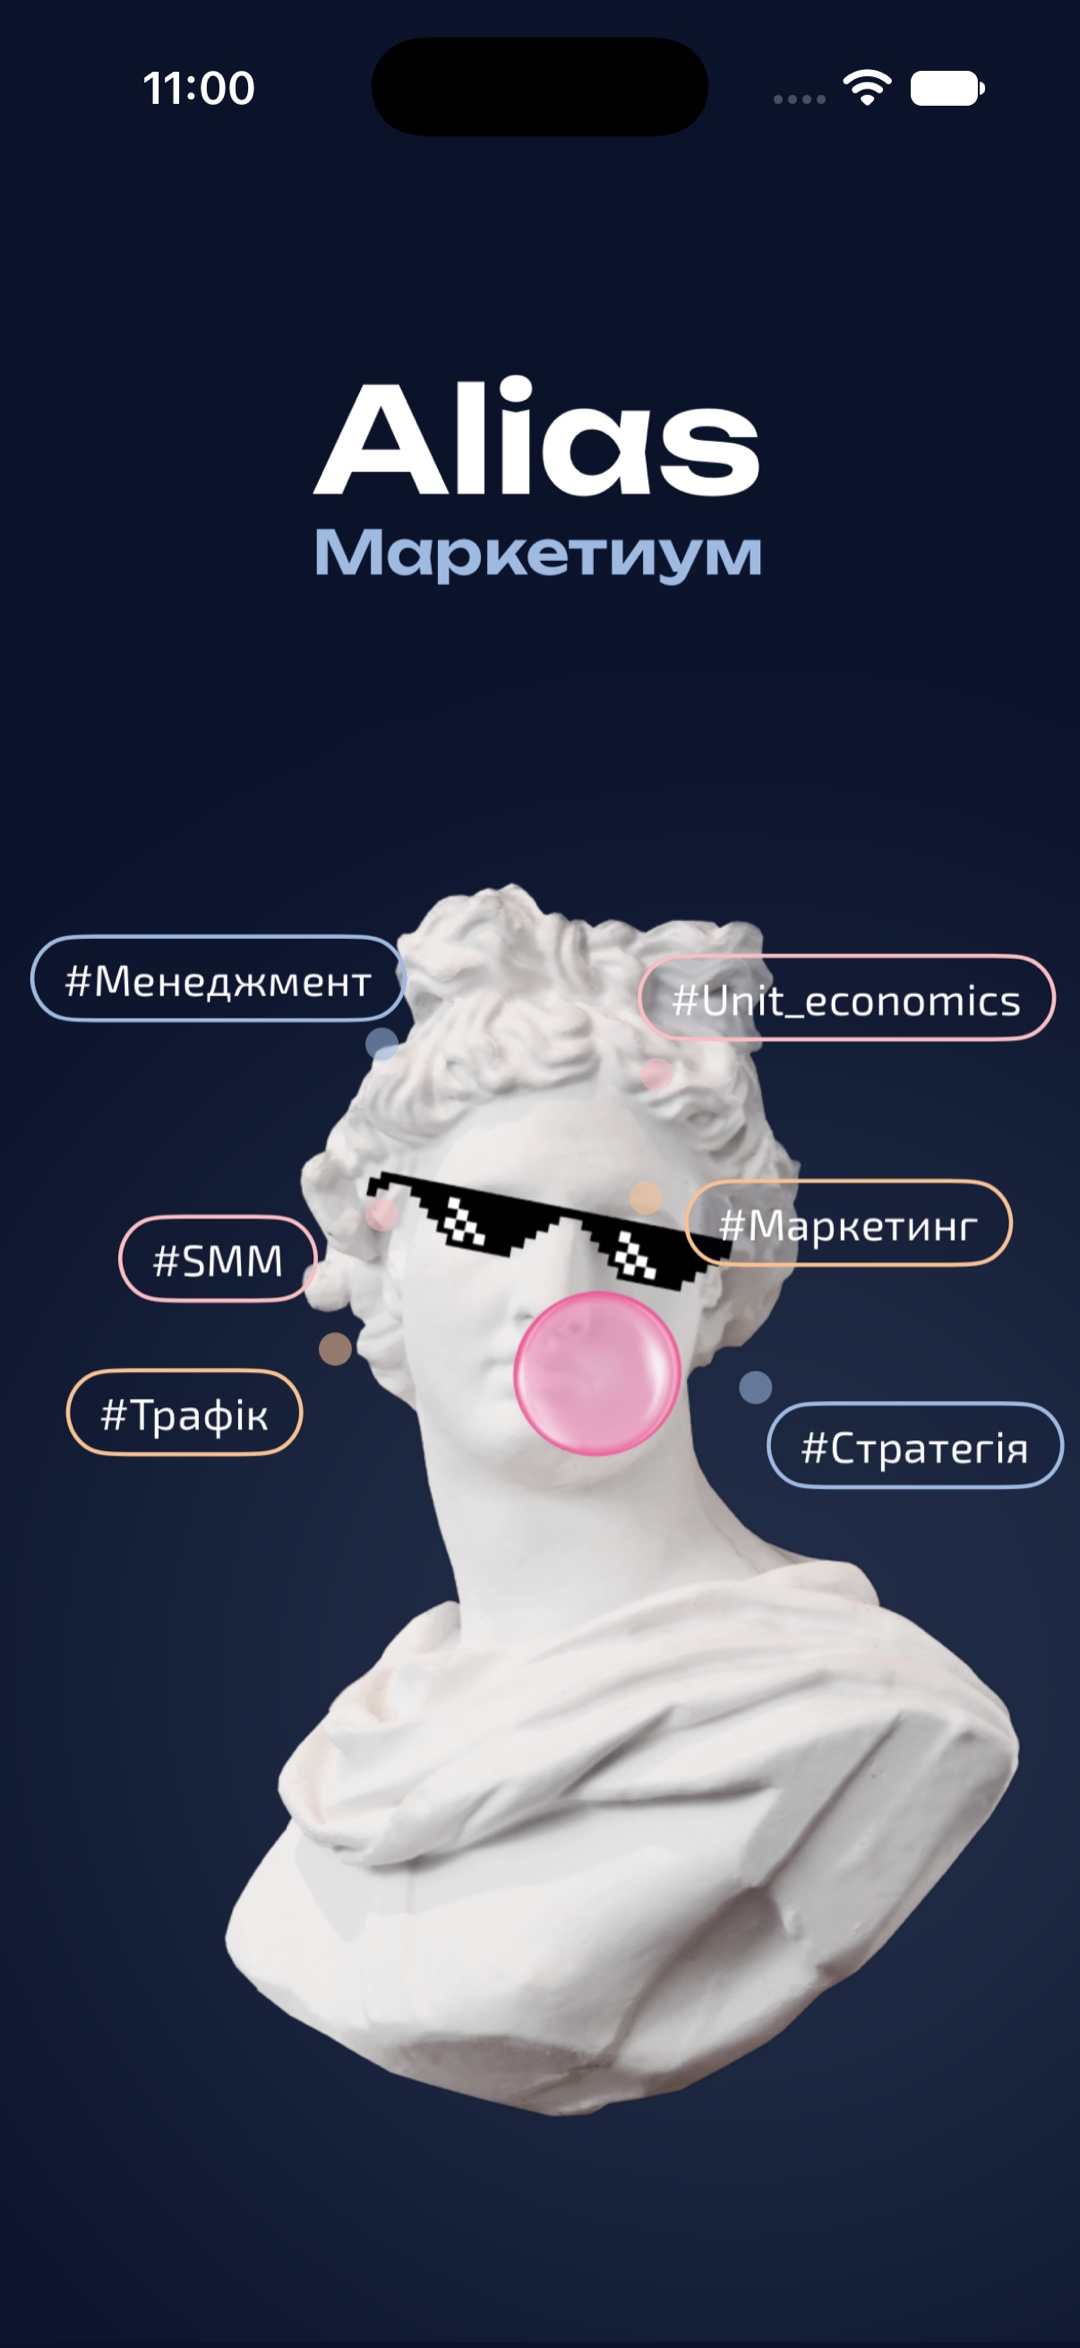
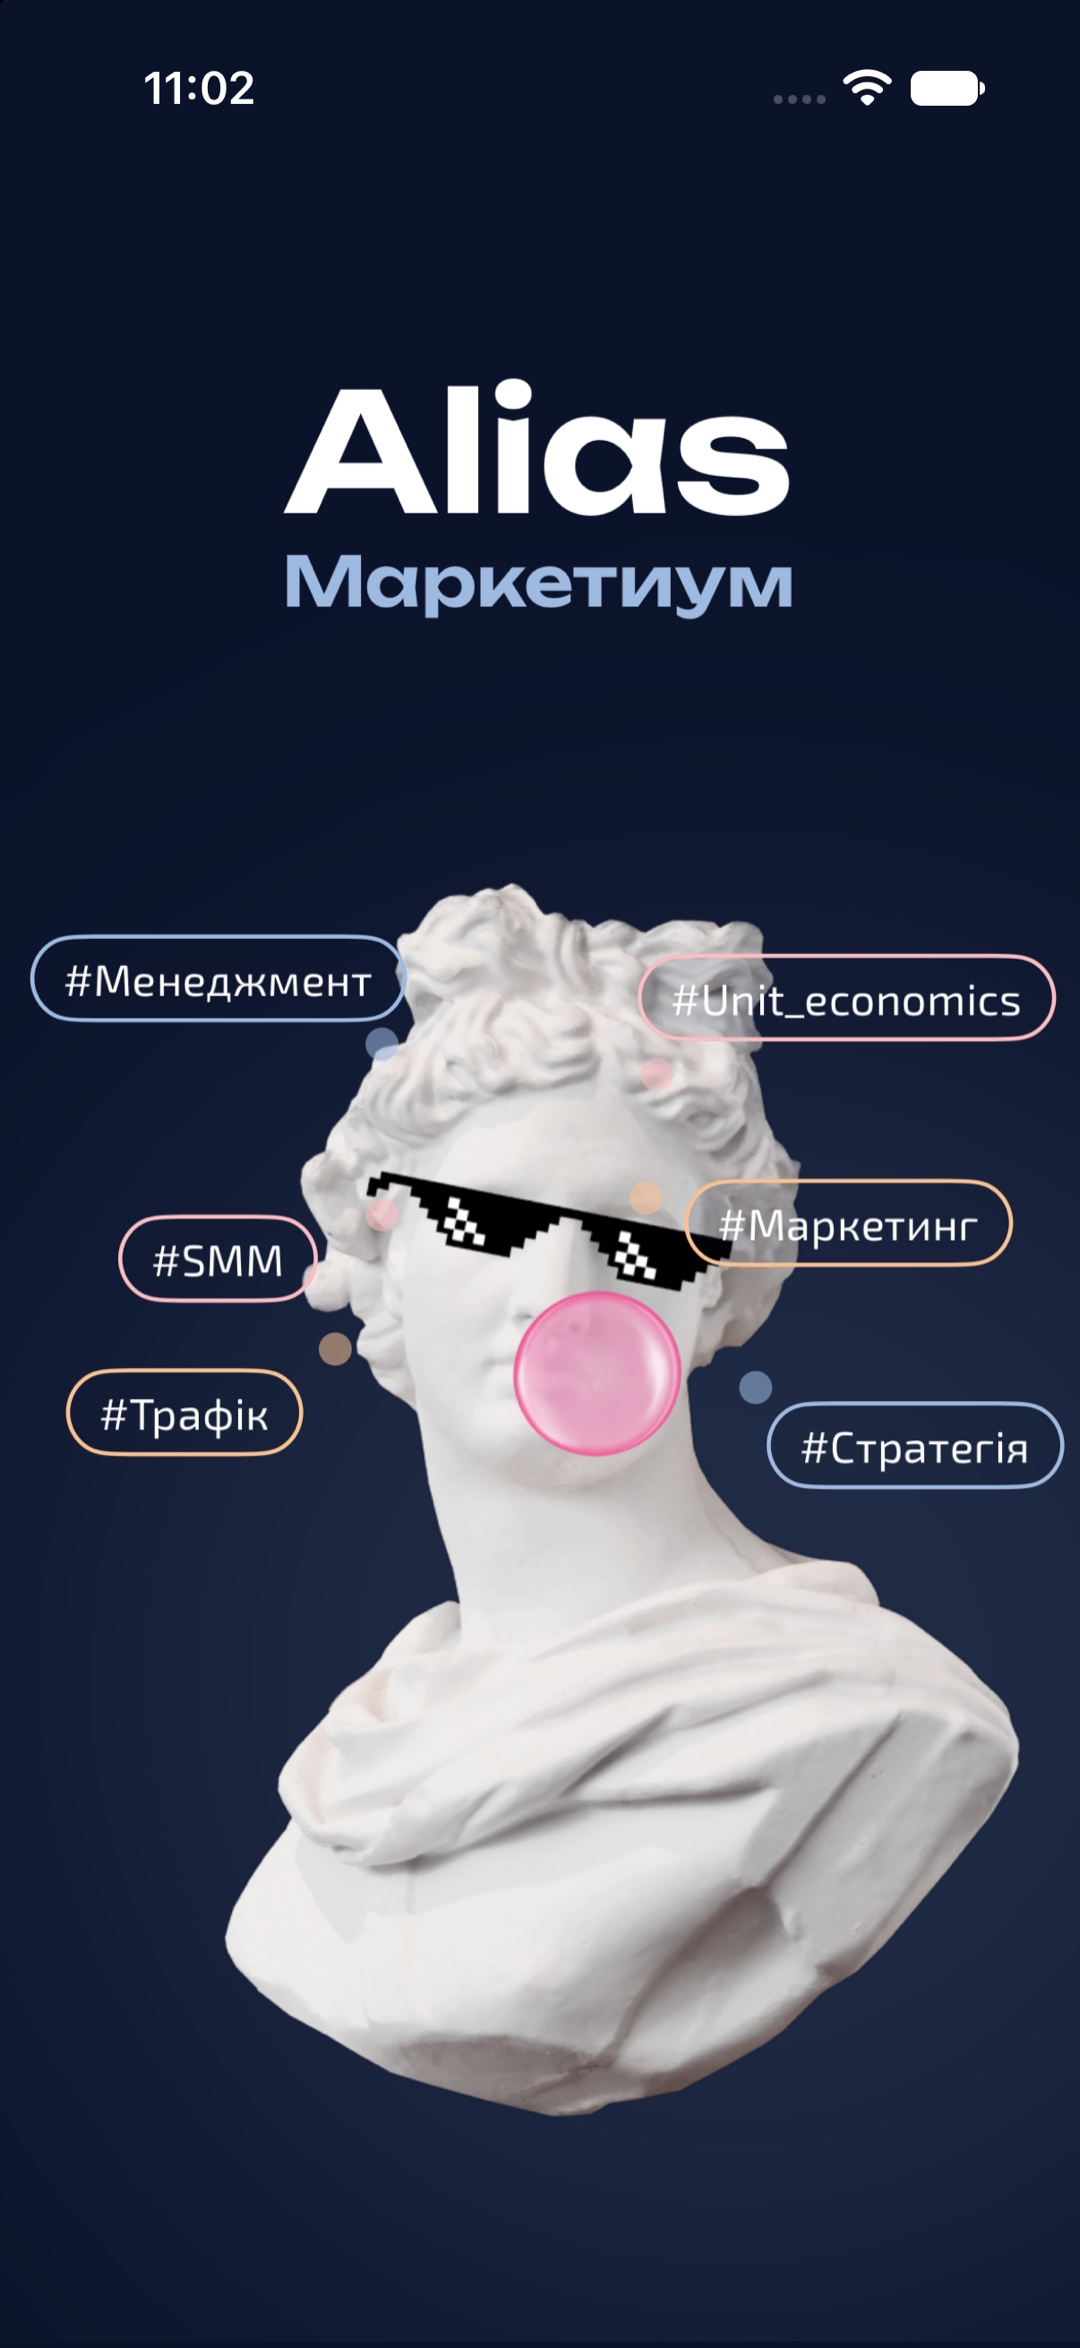
Екран запуску: назва трохи більша
Claude-Session: https://claude.ai/code/session_01SnGbK59qBap6rGwT8CguWL

Changed region(s): [[0.2444, 0.1555, 0.7333, 0.2798], [0.3361, 0.0, 0.6722, 0.0622], [0.1833, 0.0311, 0.2444, 0.0622]]

diff --git a/index.html b/index.html
@@ -181,7 +181,7 @@ function render(){
   board+=`<div class="secgrp"><div class="sechead" id="${sec.id}"><h2>${sec.title}</h2><span>${cnt} ${plural(cnt)}</span></div>`;
   flows.forEach(x=>{
    board+=`<section class="flow" id="${x.f.id}"><div class="flowcap"><h3>${x.f.title}</h3><span>${x.items.length} ${plural(x.items.length)}</span><button data-cflow="${x.f.id}">Коментувати флоу</button></div><div class="rowwrap"><button class="arrow l" aria-label="Назад">←</button><div class="row">`+
-    x.items.map(s=>`<figure class="shot" data-route="${s.route}"><div class="im"><img src="shots/${s.route}.jpg?v=2609231100" alt="${s.label}" loading="lazy" draggable="false"><i class="pinc"></i></div><figcaption class="cap"><b>${s.label}</b><span>${s.note}</span></figcaption></figure>`).join('')+
+    x.items.map(s=>`<figure class="shot" data-route="${s.route}"><div class="im"><img src="shots/${s.route}.jpg?v=2609231102" alt="${s.label}" loading="lazy" draggable="false"><i class="pinc"></i></div><figcaption class="cap"><b>${s.label}</b><span>${s.note}</span></figcaption></figure>`).join('')+
     `</div><button class="arrow r" aria-label="Далі">→</button></div></section>`;
   });
   board+=`</div>`;
@@ -239,9 +239,9 @@ function vFit(){const W=vs.clientWidth,H=vs.clientHeight;V.fitz=Math.min(W/IW,(H
 function v100(){const W=vs.clientWidth,H=vs.clientHeight;const cx=W/2,cy=H/2;vZoomAt(1/V.z*.5,cx,cy)}
 function vZoomAt(f,cx,cy){const nz=Math.min(3,Math.max(V.fitz*.5,V.z*f));const k=nz/V.z;V.x=cx-(cx-V.x)*k;V.y=cy-(cy-V.y)*k;V.z=nz;vApply()}
 function openViewer(route){const k=all.findIndex(a=>a.route===route);if(k<0)return;V.i=k;$('#viewer').classList.add('on');document.body.style.overflow='hidden';showV();}
-function showV(){const s=all[V.i];vi.src='shots/'+s.route+'.jpg?v=2609231100';
+function showV(){const s=all[V.i];vi.src='shots/'+s.route+'.jpg?v=2609231102';
  $('#vt').innerHTML=`<b>${s.label}</b><span>${s.flow.title} · ${s.note}</span><code>${s.route}</code>`;
- const fl=all.filter(a=>a.flow===s.flow);$('#strip').innerHTML=fl.map(a=>`<button data-r="${a.route}" class="${a===s?'on':''}" title="${a.label}"><img src="shots/${a.route}.jpg?v=2609231100" loading="lazy" alt=""></button>`).join('');
+ const fl=all.filter(a=>a.flow===s.flow);$('#strip').innerHTML=fl.map(a=>`<button data-r="${a.route}" class="${a===s?'on':''}" title="${a.label}"><img src="shots/${a.route}.jpg?v=2609231102" loading="lazy" alt=""></button>`).join('');
  $('#strip').querySelectorAll('button').forEach(b=>b.onclick=()=>openViewer(b.dataset.r));
  $('#strip .on')?.scrollIntoView({inline:'center',block:'nearest'});
  vimg.querySelectorAll('.pin,.pop').forEach(n=>n.remove());
